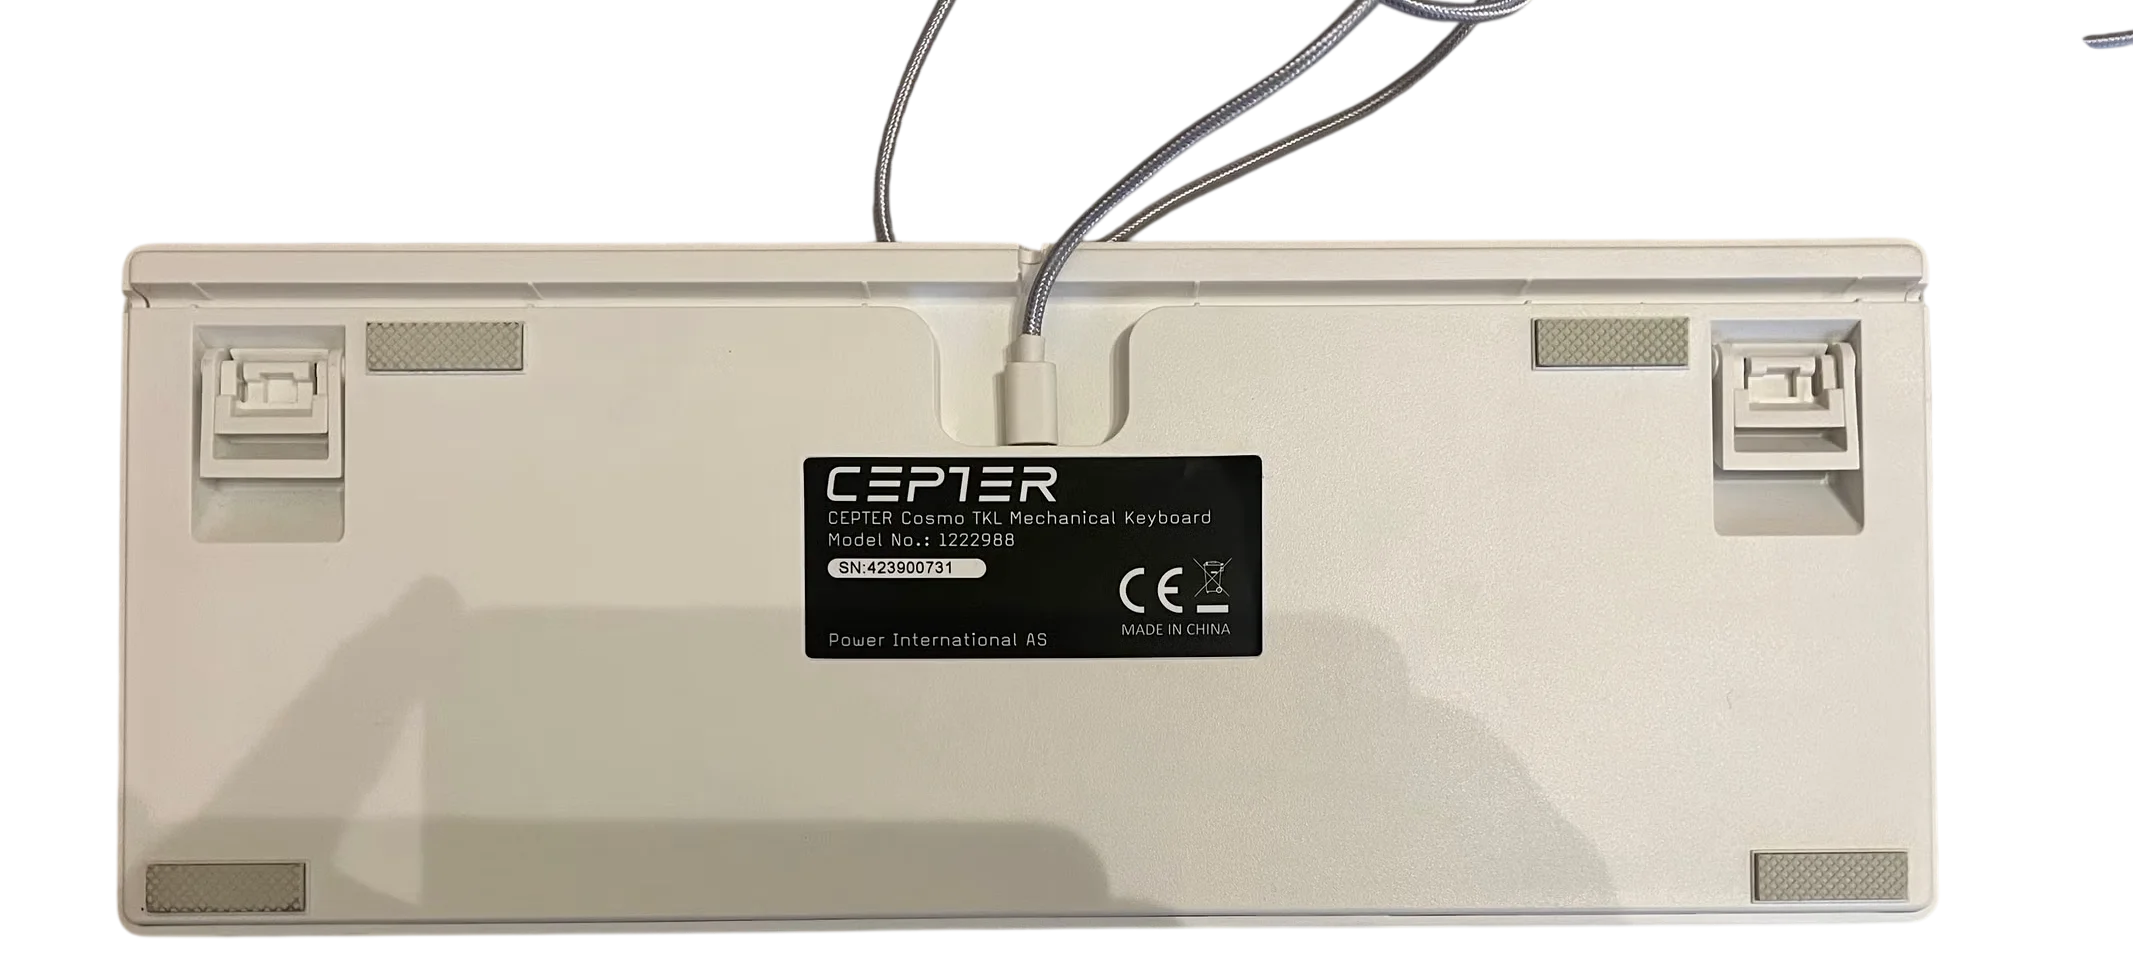
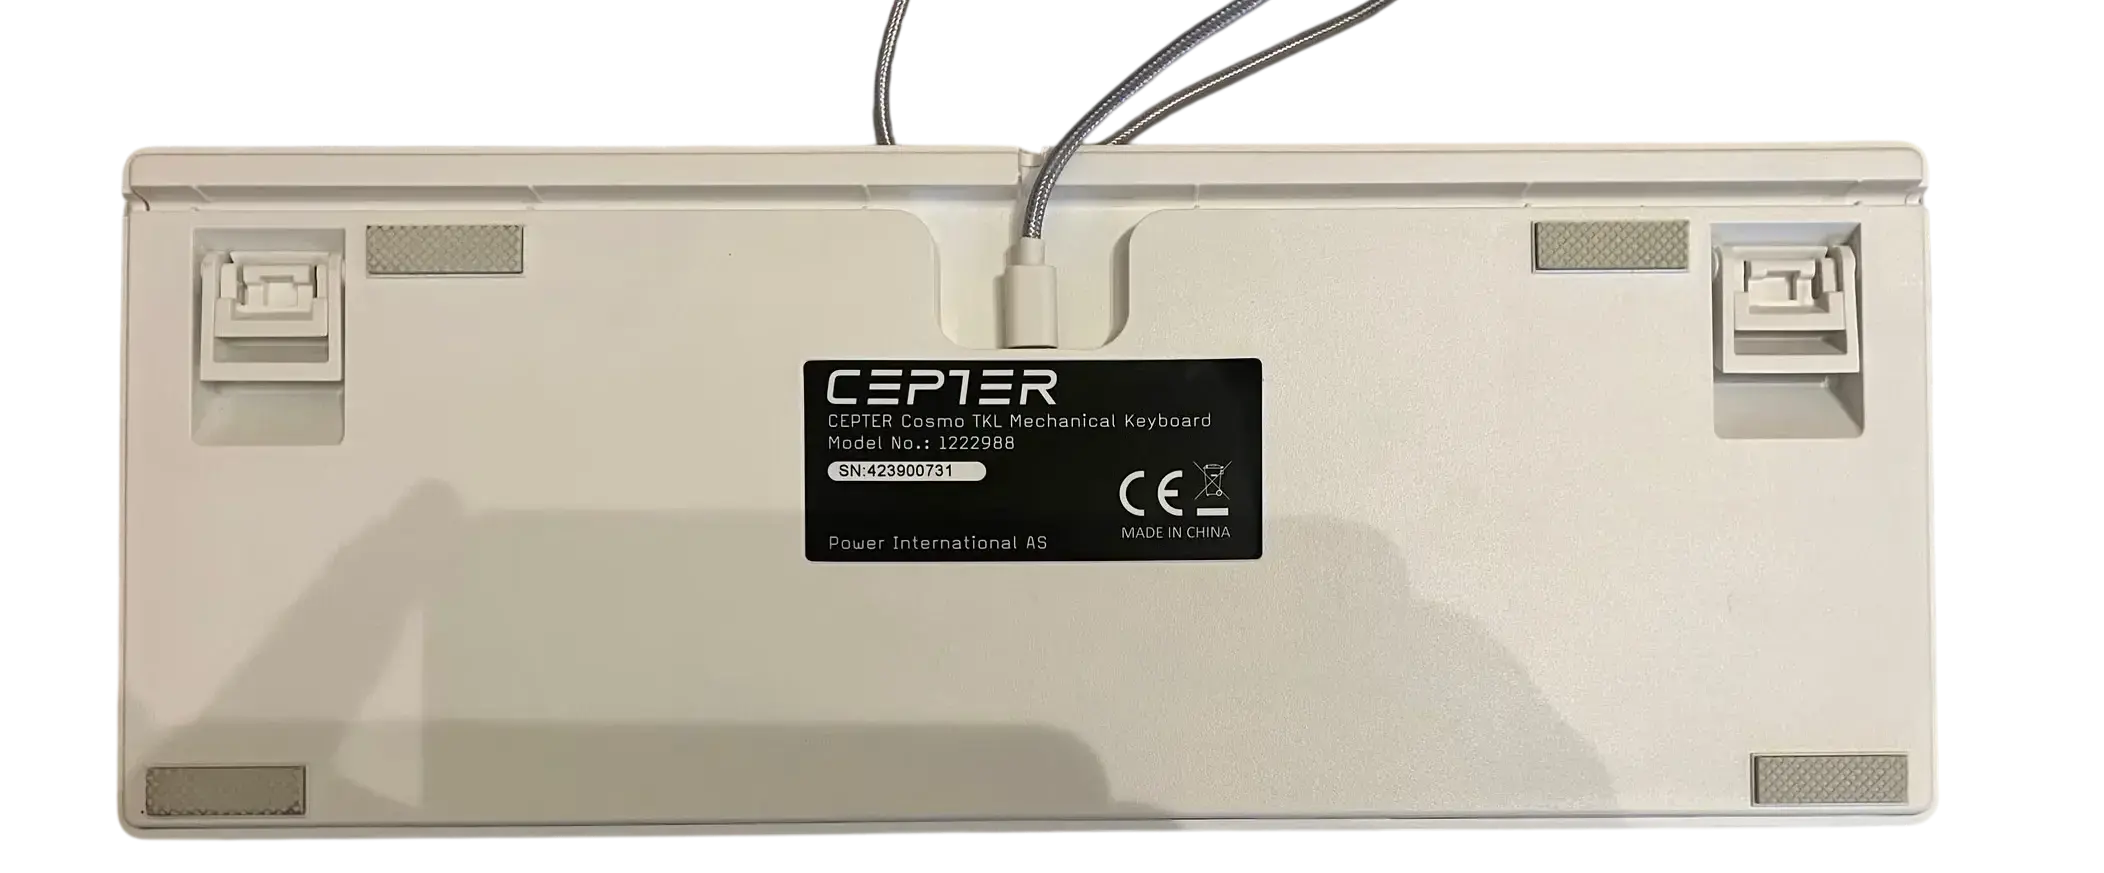
docs: reorder keyboard favorites and update cosmo crop

Changed region(s): [[0.0309, 0.0, 0.9268, 0.9897], [0.9577, 0.0309, 1.0, 0.0619], [0.0309, 0.5567, 0.0618, 0.5876]]

diff --git a/index.md b/index.md
@@ -255,14 +255,14 @@ layout: default
       </div>
       
       <div class="project-gallery-item">
-        <h3 class="project-caption">Cepter Cosmo TKL : My First Mechanical Keyboard</h3>
+        <h3 class="project-caption">Cepter Cosmo TKL : First Favorite Keyboard</h3>
         <img src="{{ '/assets/cosmo-1.webp' | relative_url }}" alt="Cepter Cosmo TKL" width="800" loading="lazy">
         <img src="{{ '/assets/cosmo-2.webp' | relative_url }}" alt="Cepter Cosmo TKL" width="800" loading="lazy">
         <img src="{{ '/assets/cosmo-3.webp' | relative_url }}" alt="Cepter Cosmo TKL" width="800" loading="lazy">
       </div>
       
       <div class="project-gallery-item">
-        <h3 class="project-caption">Logitech G213 Prodigy : First Favorite Keyboard</h3>
+        <h3 class="project-caption">Logitech G213 Prodigy : Second Favorite Keyboard</h3>
         <img src="{{ '/assets/g213-gallery-1-nb.webp' | relative_url }}" alt="Logitech G213" width="400" loading="lazy">
         <img src="{{ '/assets/g213-gallery-2-nb.webp' | relative_url }}" alt="Logitech G213" width="400" loading="lazy">
         <img src="{{ '/assets/g213-gallery-3-nb.webp' | relative_url }}" alt="Logitech G213" width="400" loading="lazy">
@@ -270,7 +270,7 @@ layout: default
       </div>
       
       <div class="project-gallery-item">
-        <h3 class="project-caption">Epomaker x Aula F75 : Second Favorite Keyboard</h3>
+        <h3 class="project-caption">Epomaker x Aula F75 : Third Favorite Keyboard</h3>
         <img src="{{ '/assets/IMG-1.webp' | relative_url }}" alt="Epomaker x Aula F75" width="800" loading="lazy">
         <img src="{{ '/assets/IMG-2.webp' | relative_url }}" alt="Epomaker x Aula F75" width="800" loading="lazy">
         <img src="{{ '/assets/IMG-3.webp' | relative_url }}" alt="Epomaker x Aula F75" width="800" loading="lazy">

diff --git a/README.zh.md b/README.zh.md
@@ -247,7 +247,7 @@
 </table>
 
 
-# ⌨ 我的第一把机械键盘是 cepter cosmo tkl。
+# ⌨ 我最喜欢的第一个键盘是 cepter cosmo tkl，也是我的第一把机械键盘。
 
 <p align="center">
         <img src="/assets/cosmo-1.webp" alt="cepter cosmo tkl" width="800">
@@ -260,7 +260,7 @@
 </p>
 
 
-# ⌨ 我最喜欢的第一个键盘是 logitech g213 prodigy。
+# ⌨ 我最喜欢的第二个键盘是 logitech g213 prodigy。
 
 <table align="center">
   <tr>
@@ -282,7 +282,7 @@
 </table>
 
 
-# ⌨ 我最喜欢的第二个键盘是 epomaker x aula f75
+# ⌨ 我最喜欢的第三个键盘是 epomaker x aula f75
 
 <p align="center">
         <img src="/assets/IMG-1.webp" alt="antera logo" width="800">

diff --git a/README.md b/README.md
@@ -279,7 +279,7 @@
 </table>
 
 
-# ⌨ my first mechanical keyboard was the cepter cosmo tkl.
+# ⌨ my first favorite keyboard is the cepter cosmo tkl, my first mechanical keyboard.
 
 <p align="center">
         <img src="/assets/cosmo-1.webp" alt="cepter cosmo tkl" width="800">
@@ -292,7 +292,7 @@
 </p>
 
 
-# ⌨ my first favorite keyboard is logitech g213 prodigy.
+# ⌨ my second favorite keyboard is logitech g213 prodigy.
 
 <table align="center">
   <tr>
@@ -314,7 +314,7 @@
 </table>
 
 
-# ⌨ my second favorite keyboard is epomaker x aula f75
+# ⌨ my third favorite keyboard is epomaker x aula f75
 
 <p align="center">
         <img src="/assets/IMG-1.webp" alt="antera logo" width="800">
